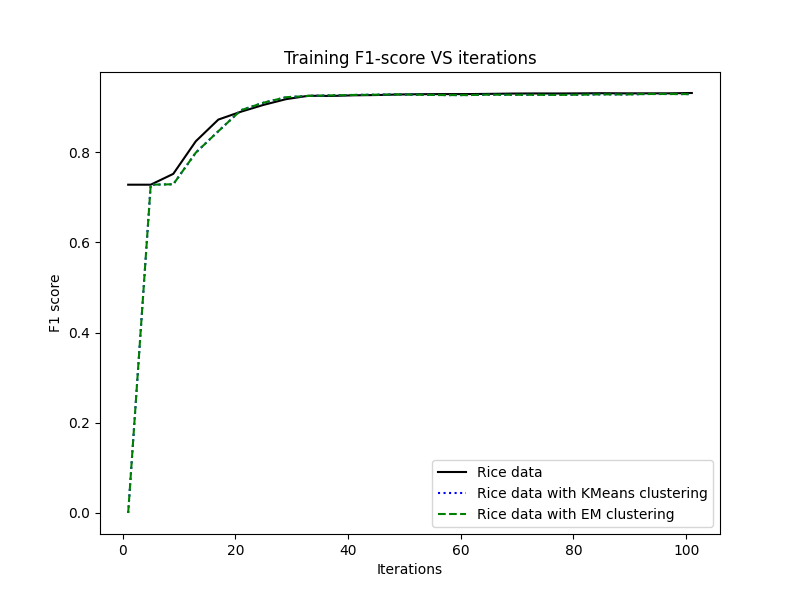
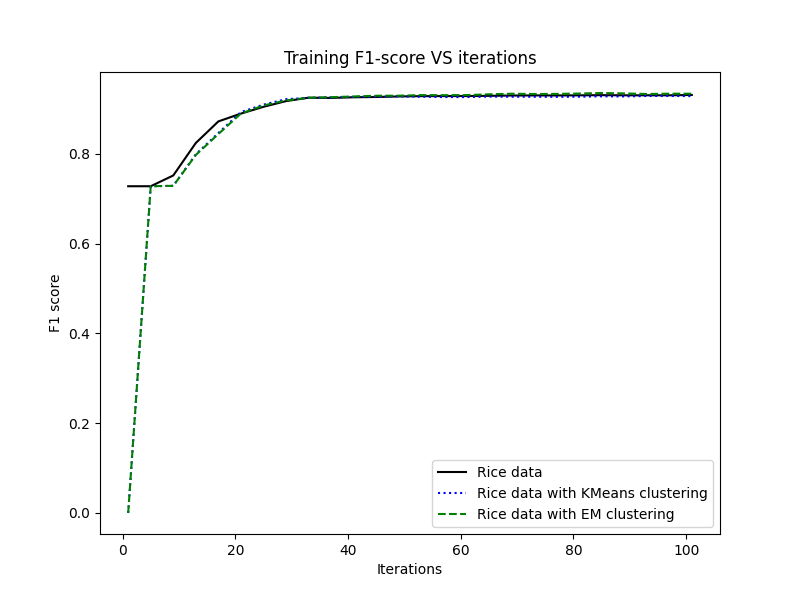
Correct NN training on clustering
Implementation was using KMeans inplace of EM

diff --git a/nn_cluster_features.py b/nn_cluster_features.py
@@ -9,14 +9,7 @@ from sklearn.mixture import GaussianMixture
 from config import RANDOM_STATE
 from datasets import RiceData
 
-
-
 from nn_util import nn_trainer
-from pca_rice import execute_pca
-from ica_rice import execute_ica
-from rp_rice import execute_rp
-from isomap_rice import execute_isomap
-
 
 # Load the Rice dataset
 # Perform both the clustering and create dataset with these features
@@ -36,7 +29,7 @@ print("- Rice dataset with KMeans labels is loaded")
 # Perform EM clustering as features | Using 2 clusters
 em = GaussianMixture(n_components=2, random_state=RANDOM_STATE)
 em.fit(X)
-em_labels = kmeans.predict(X).reshape((-1,1))
+em_labels = em.predict(X).reshape((-1,1))
 EM_X = np.concatenate([X, em_labels], axis=1)
 em_x_train, em_x_test, y_train, y_test = train_test_split(EM_X, y, test_size=0.2, random_state=RANDOM_STATE)
 print("- Rice dataset with EM labels is loaded")
